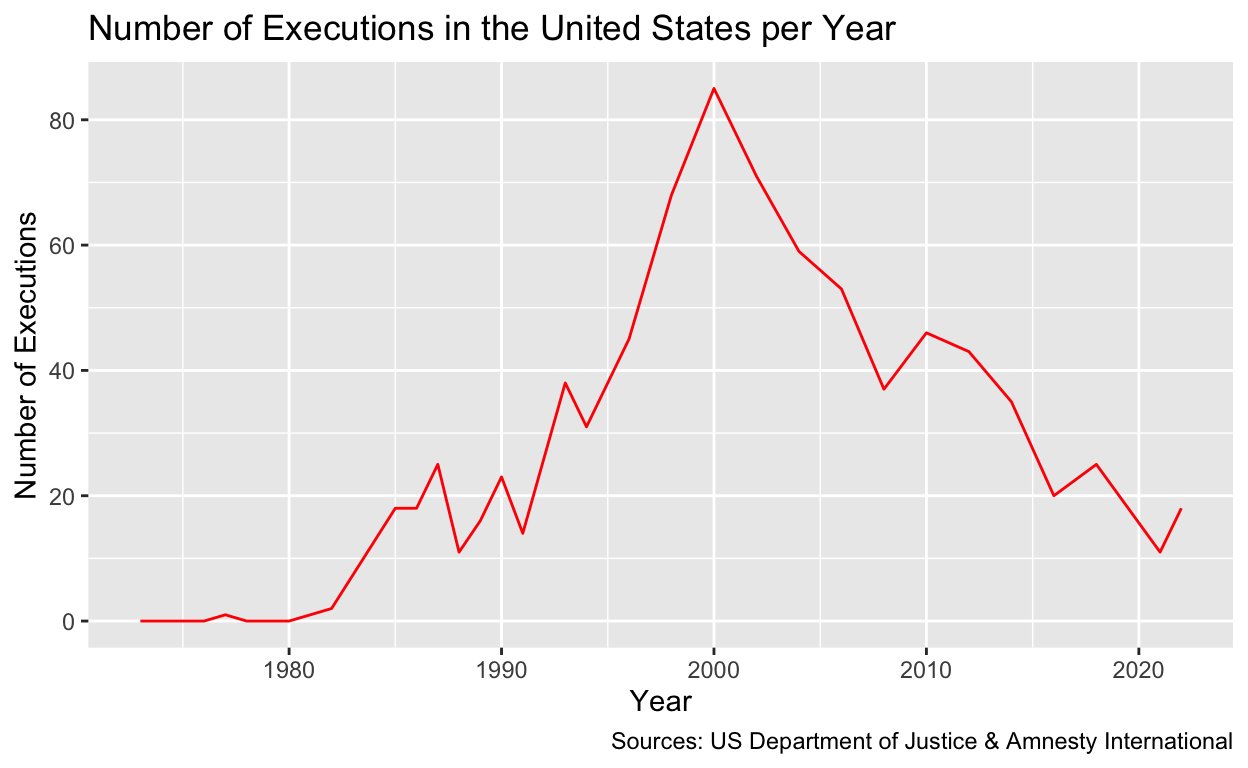
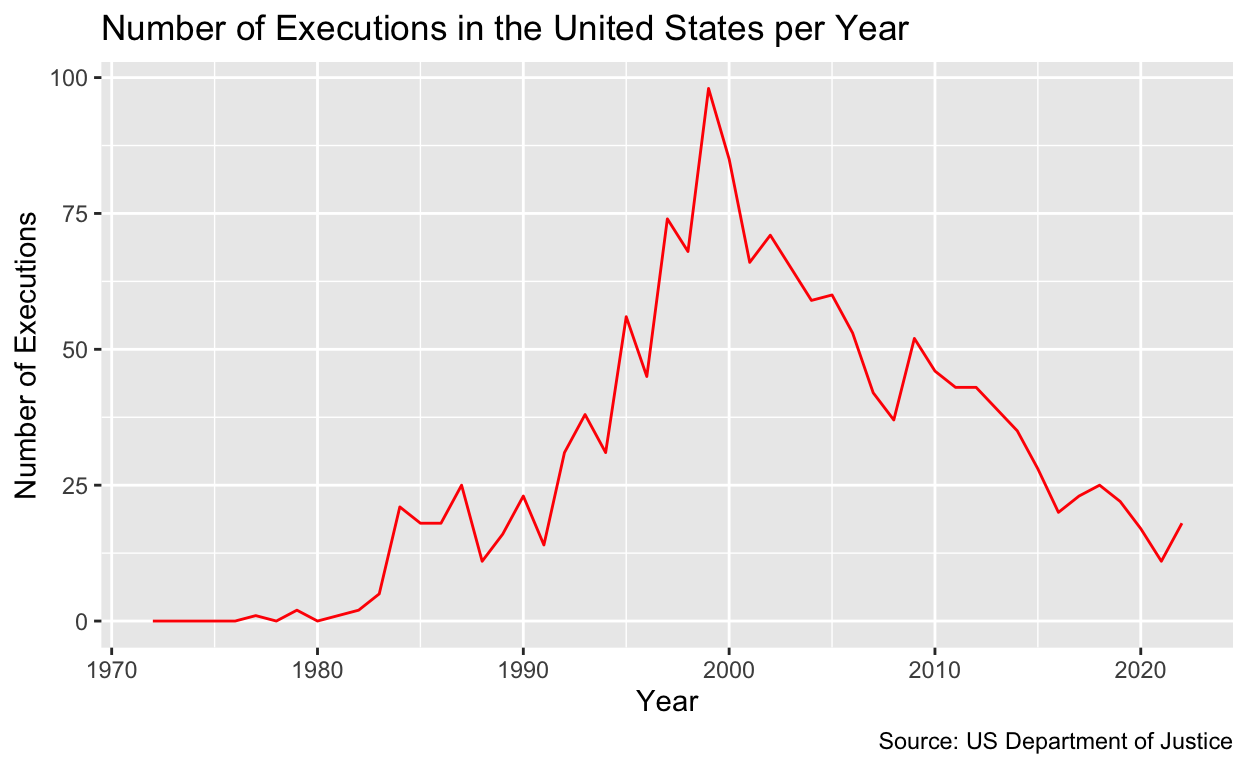
leaving dhall

diff --git a/index.html b/index.html
@@ -115,7 +115,7 @@ code span.wa { color: #5e5e5e; font-style: italic; } /* Warning */
   <!--/radix_placeholder_rmarkdown_metadata-->
   
   <script type="text/json" id="radix-resource-manifest">
-  {"type":"character","attributes":{},"value":["~$Gov 50 Compiled Dataset (Master Copy).xlsx","deathpenalty.csv","index_files/anchor-4.2.2/anchor.min.js","index_files/bowser-1.9.3/bowser.min.js","index_files/distill-2.2.21/template.v2.js","index_files/figure-html5/unnamed-chunk-1-1.png","index_files/figure-html5/unnamed-chunk-1-2.png","index_files/figure-html5/unnamed-chunk-1-3.png","index_files/figure-html5/unnamed-chunk-1-4.png","index_files/figure-html5/unnamed-chunk-10-1.png","index_files/figure-html5/unnamed-chunk-11-1.png","index_files/figure-html5/unnamed-chunk-12-1.png","index_files/figure-html5/unnamed-chunk-2-1.png","index_files/figure-html5/unnamed-chunk-2-2.png","index_files/figure-html5/unnamed-chunk-3-1.png","index_files/figure-html5/unnamed-chunk-3-2.png","index_files/figure-html5/unnamed-chunk-3-3.png","index_files/figure-html5/unnamed-chunk-3-4.png","index_files/figure-html5/unnamed-chunk-3-5.png","index_files/figure-html5/unnamed-chunk-3-6.png","index_files/figure-html5/unnamed-chunk-4-1.png","index_files/figure-html5/unnamed-chunk-4-2.png","index_files/header-attrs-2.17/header-attrs.js","index_files/header-attrs-2.24/header-attrs.js","index_files/jquery-3.6.0/jquery-3.6.0.js","index_files/jquery-3.6.0/jquery-3.6.0.min.js","index_files/jquery-3.6.0/jquery-3.6.0.min.map","index_files/kePrint-0.0.1/kePrint.js","index_files/lightable-0.0.1/lightable.css","index_files/popper-2.6.0/popper.min.js","index_files/tippy-6.2.7/tippy-bundle.umd.min.js","index_files/tippy-6.2.7/tippy-light-border.css","index_files/tippy-6.2.7/tippy.css","index_files/tippy-6.2.7/tippy.umd.min.js","index_files/webcomponents-2.0.0/webcomponents.js"]}
+  {"type":"character","attributes":{},"value":["~$Gov 50 Compiled Dataset (Master Copy).xlsx","deathpenalty.csv","index_files/anchor-4.2.2/anchor.min.js","index_files/bowser-1.9.3/bowser.min.js","index_files/distill-2.2.21/template.v2.js","index_files/figure-html5/unnamed-chunk-1-1.png","index_files/figure-html5/unnamed-chunk-1-2.png","index_files/figure-html5/unnamed-chunk-1-3.png","index_files/figure-html5/unnamed-chunk-1-4.png","index_files/figure-html5/unnamed-chunk-10-1.png","index_files/figure-html5/unnamed-chunk-11-1.png","index_files/figure-html5/unnamed-chunk-12-1.png","index_files/figure-html5/unnamed-chunk-2-1.png","index_files/figure-html5/unnamed-chunk-2-2.png","index_files/figure-html5/unnamed-chunk-2-3.png","index_files/figure-html5/unnamed-chunk-2-4.png","index_files/figure-html5/unnamed-chunk-2-5.png","index_files/figure-html5/unnamed-chunk-2-6.png","index_files/figure-html5/unnamed-chunk-3-1.png","index_files/figure-html5/unnamed-chunk-3-2.png","index_files/figure-html5/unnamed-chunk-3-3.png","index_files/figure-html5/unnamed-chunk-3-4.png","index_files/figure-html5/unnamed-chunk-3-5.png","index_files/figure-html5/unnamed-chunk-3-6.png","index_files/figure-html5/unnamed-chunk-4-1.png","index_files/figure-html5/unnamed-chunk-4-2.png","index_files/figure-html5/unnamed-chunk-9-1.png","index_files/header-attrs-2.17/header-attrs.js","index_files/header-attrs-2.24/header-attrs.js","index_files/jquery-3.6.0/jquery-3.6.0.js","index_files/jquery-3.6.0/jquery-3.6.0.min.js","index_files/jquery-3.6.0/jquery-3.6.0.min.map","index_files/kePrint-0.0.1/kePrint.js","index_files/lightable-0.0.1/lightable.css","index_files/popper-2.6.0/popper.min.js","index_files/tippy-6.2.7/tippy-bundle.umd.min.js","index_files/tippy-6.2.7/tippy-light-border.css","index_files/tippy-6.2.7/tippy.css","index_files/tippy-6.2.7/tippy.umd.min.js","index_files/webcomponents-2.0.0/webcomponents.js"]}
   </script>
   <!--radix_placeholder_navigation_in_header-->
   <!--/radix_placeholder_navigation_in_header-->
@@ -1521,7 +1521,7 @@ code span.wa { color: #5e5e5e; font-style: italic; } /* Warning */
 <div class="d-article">
 <h2 id="introduction">Introduction</h2>
 <p>In Furman v. Georgia (1972), the United States Supreme Court ruled that capital punishment, in its current form, was being applied in an arbitrary, capricious, and racially biased manner. Such application of capital punishment, according to the Court, constituted a “cruel and unusual punishment,” and therefore violated the 8th and 14th amendments of the US Constitution. In effect, the Furman ruling placed an indefinite moratorium on executions until states and the federal government could alter their capital statutes in a manner that no longer violated the Constitution. Four years later, in Gregg v. Georgia (1976), the Court ruled that Georgia that a handful of states’ revised statutes conformed to the standards required by Furman, thus lifting the moratorium on executions and ushering in what scholars has dubbed “the modern era of the American death penalty.” The reinstatement of capital punishment in the Untied States was a historic anomaly, as the majority of America’s peer nations during this time period were moving to permanently abolish the death penalty. Indeed, today, the Untied States is the world’s only “western” democracy to retain its death penalty and to actively execute its citizens.</p>
-<p>Both today and in the years preceding Furman v. Georgia, death penalty abolitionists and anti-death penalty activists have pursued a “moratorium strategy,” where they attempt to get state governments and the federal governments to place a moratorium on executions, or at least minimize the annual number of executions. As explained by <strong><em>() lowering execution rates is often the first step toward permanent abolition of capital punishment, as was the case in </em></strong>. Some scholars believe that that, by substantially lowering the number of annual executions, permanent death penalty abolition in the United States will become more feasible. However, there is currently a dearth of research on the factors/conditions that impact the number of executions the United States carries out in a given year. My project aims to begin to fill this gap in research. This research is important because it may help activists better focus their efforts on those factors or conditions that decrease the number of annual executions.</p>
+<p>Both today and in the years preceding Furman v. Georgia, death penalty abolitionists and anti-death penalty activists have pursued a “moratorium strategy,” where they attempt to get state governments and the federal governments to place a moratorium on executions, or at least minimize the annual number of executions. As explained by ___ () lowering execution rates is often the first step toward permanent abolition of capital punishment, as was the case in ___. Some scholars believe that that, by substantially lowering the number of annual executions, permanent death penalty abolition in the United States will become more feasible. However, there is currently a dearth of research on the factors/conditions that impact the number of executions the United States carries out in a given year. My project aims to begin to fill this gap in research. This research is important because it may help activists better focus their efforts on those factors or conditions that decrease the number of annual executions.</p>
 <p>To this end, I ask the following research question:</p>
 <p>The corpus of social science literature on capital punishment emphasizes that, in most democratic nations, public opinion plays a limited role in governments’ decision to abolish the death penalty. However, these scholars note that it is unwise the assume these trends will hold true in the Unites States, as American democracy has a number of idiosyncratic features that change the calculus. These features include (but are not limited to) popularly elected prosecutors and judges, the frequent use of referenda and ballot initiatives, _____(citation). Ultimately, ____. Guided by this literature, I have formulated my first hypothesis:</p>
 <p>H1: Public support for capital punishment increases the number of executions.</p>
@@ -1532,6 +1532,75 @@ code span.wa { color: #5e5e5e; font-style: italic; } /* Warning */
 <h2 id="data-research-design">Data &amp; Research Design</h2>
 <p>My data does not come from a single source, as I was unable to find a dataset that contained all (or even most) of the variables I was interested in analyzing. Instead, I compiled data from four different datasets into a single excel spreadsheet, which I then converted to a .csv file. My data on the number of annual executions comes from the U.S. Department of Justice’s Bureau of Justice Statistics (BJS). The BJS database contained data for the period 1977-2022, in a dataset entitled “Prisoners Executed.” Due to the Furman v. Georgia ruling, no executions were carried out between 1972-1976, so I was able to _____ in my Excel spreadsheet. For data on the annual national homicide rate, I used</p>
 <p>The BJS website no longer publicly displays homicide rdata for years prior to 1985, so in order to find this information, I searched the Internet Archive’s Wayback Machine. There, I located an archived dataset published by</p>
+<table>
+<colgroup>
+<col style="width: 26%" />
+<col style="width: 73%" />
+</colgroup>
+<thead>
+<tr class="header">
+<th>Name</th>
+<th>Description</th>
+</tr>
+</thead>
+<tbody>
+<tr class="odd">
+<td><code>Year</code></td>
+<td>Year ___ ?</td>
+</tr>
+<tr class="even">
+<td><code>Number_Executions</code></td>
+<td>Number of prisoners executed in the United States</td>
+</tr>
+<tr class="odd">
+<td><code>Number_Exonerations</code></td>
+<td>Number of death row exonerations</td>
+</tr>
+<tr class="even">
+<td><code>Homicide_Rate</code></td>
+<td>National homicide rate</td>
+</tr>
+<tr class="odd">
+<td><code>Fin_Dissatisfaction</code></td>
+<td>% of Americans are dissatified with their overall financial situation</td>
+</tr>
+</tbody>
+</table>
+<p>I included a few variables that I do not use in this report, but that may yield fruitful inside if analyzed in future research. The data for each of these variables also came from the General Social Survey dataset. Below are the variables and a brief description of each:</p>
+<table>
+<colgroup>
+<col style="width: 31%" />
+<col style="width: 68%" />
+</colgroup>
+<thead>
+<tr class="header">
+<th>Name</th>
+<th>Description</th>
+</tr>
+</thead>
+<tbody>
+<tr class="odd">
+<td><code>Pro_Prayer_Schools</code></td>
+<td>% of Americans who support Christian prayer in public schools</td>
+</tr>
+<tr class="even">
+<td><code>Ban_IRM</code></td>
+<td>% of Americans who support a ban on interracial marriage</td>
+</tr>
+<tr class="odd">
+<td><code>Insufficient_Spending_CR</code>.</td>
+<td>% of Americans who believe</td>
+</tr>
+<tr class="even">
+<td><code>Distrust_SC</code></td>
+<td>% of Americans who distrust the Supreme Court to do the right thing</td>
+</tr>
+<tr class="odd">
+<td><code>Distrust_Congress</code></td>
+<td>% of Americans who distrust Congress to do the right thing</td>
+</tr>
+</tbody>
+</table>
 <p>I then loaded this file into RStudio, named it “deathpenalty,” and presented my dataset in a table.</p>
 <div class="layout-chunk" data-layout="l-body">
 <div class="sourceCode">
